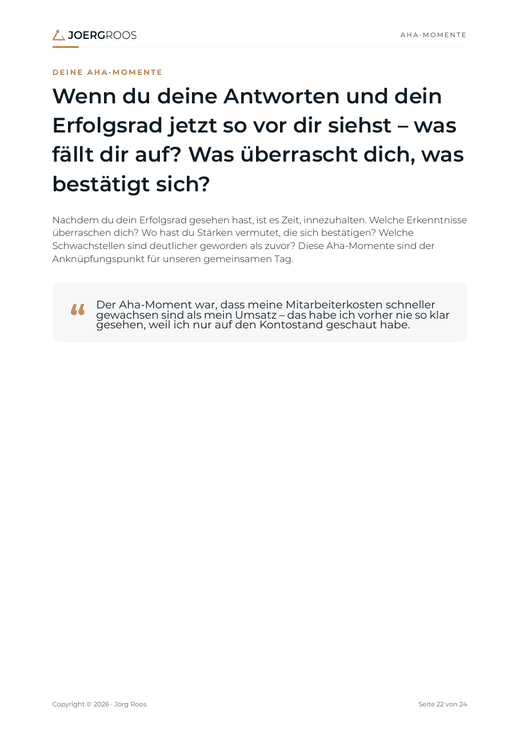
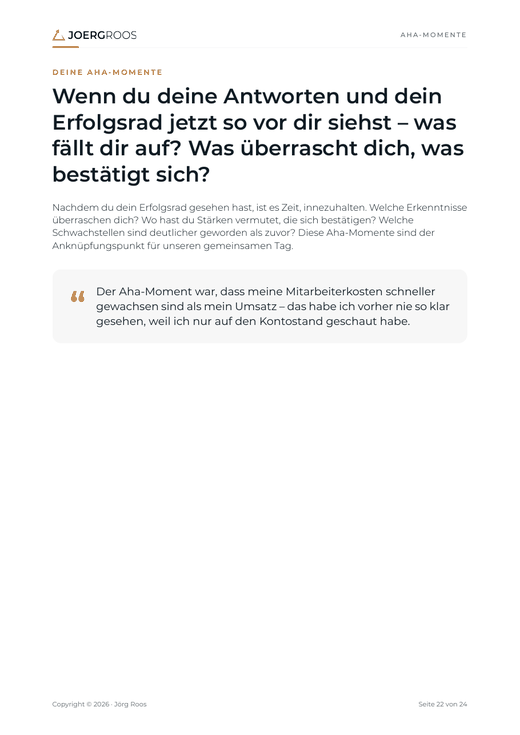
fix: PDF — Zeilenabstand in Karten und Tabellen, Abstände Faktor-Seite

Changed region(s): [[0.0923, 0.1497, 0.8923, 0.3592], [0.1231, 0.3891, 0.8615, 0.449]]

diff --git a/lib/pdf/Workbook.tsx b/lib/pdf/Workbook.tsx
@@ -16,20 +16,19 @@ const KARTE = '#F7F7F7', ZEBRA = '#FFFFFF', WASSER = '#F0F0F0', PILLE = '#FDEBD9
 // 1. Kein lineHeight auf Seitenebene (st.seite) — Yoga bringt sonst die feste
 //    Fußzeile (position:'absolute', bottom) aus dem Takt, sie wird gar nicht
 //    mehr gerendert. lineHeight deshalb nur an den Fließtext-Stilen.
-// 2. lineHeight ist KEIN Faktor auf die eigene Schriftgröße. Nachgemessen an
-//    zwei Stellen mit sehr unterschiedlicher Größe (Fließtext 10,8 pt und
-//    Überschrift 24 pt): der sichtbare Zeilenabstand ist beide Male
-//    lineHeight × ≈20,6 pt — also ein fester Wert, unabhängig von der
-//    Schriftgröße (12 pt Grundwert × dem dokumentierten Faktor 12/7). Praktisch
-//    heißt das: gewünschter Zeilenabstand in Punkt ÷ 20,6 = der Stil-Wert.
-//    Große Schrift braucht deshalb große Werte (24 pt Überschrift → 1.4),
-//    kleine Schrift kleine (10,8 pt Fließtext → 0.82 ≈ 17 pt Abstand).
-//    Wer hier den gleichen Wert für alles einsetzt, bekommt entweder
-//    übereinanderliegende Überschriften oder auseinandergerissenen Fließtext.
+// 2. lineHeight wirkt NUR, wenn am selben Element auch fontSize steht. Dann
+//    gilt schlicht: Zeilenabstand = lineHeight × fontSize (mit pdftotext -bbox
+//    nachgemessen: fontSize 11 + lineHeight 1.0 ergibt exakt 11,00 pt Abstand).
+//    Fehlt fontSize, ignoriert react-pdf den Wert und nimmt die natürliche
+//    Zeilenhöhe der Schrift — bei Montserrat rund 1,36 × Schriftgröße (10,8 pt
+//    Fließtext ohne eigenes fontSize maß 14,7 pt). Daher trägt hier JEDER Stil
+//    mit lineHeight auch ein fontSize. Der früher dokumentierte 12/7-Faktor
+//    existiert nicht.
 // 3. Kein fontStyle:'italic' — es liegt keine kursive Montserrat unter
 //    public/fonts/, react-pdf bricht sonst mit "Could not resolve font" ab.
 // ---------------------------------------------------------------------------
-const ZH = 0.82; // Fließtext 10,8–11 pt → ≈17 pt Zeilenabstand
+const GROESSE = 10.8;  // Fließtext
+const ZH = 1.35;       // Zeilenabstand als Vielfaches der Schriftgröße
 
 const st = StyleSheet.create({
   seite: { fontFamily: 'Montserrat', fontSize: 10.8, color: BLAU, paddingTop: 78, paddingBottom: 62, paddingHorizontal: 60 },
@@ -43,23 +42,23 @@ const st = StyleSheet.create({
   fuss: { position: 'absolute', bottom: 30, left: 60, right: 60, flexDirection: 'row', justifyContent: 'space-between', fontSize: 7.5, color: GRAU },
 
   eyebrow: { fontSize: 8.5, letterSpacing: 1.6, color: O, fontWeight: 600, textTransform: 'uppercase', marginBottom: 7 },
-  h1: { fontSize: 24, fontWeight: 600, marginBottom: 16, lineHeight: 1.4 },
-  h2: { fontSize: 12.5, fontWeight: 600, marginTop: 16, marginBottom: 5, lineHeight: 0.9 },
-  absatz: { marginBottom: 9, fontWeight: 300, lineHeight: ZH },
+  h1: { fontSize: 24, fontWeight: 600, marginBottom: 16, lineHeight: 1.25 },
+  h2: { fontSize: 12.5, fontWeight: 600, marginTop: 16, marginBottom: 5, lineHeight: 1.3 },
+  absatz: { marginBottom: 9, fontSize: GROESSE, fontWeight: 300, lineHeight: ZH },
 
   // Frage & Antwort
   frageZeile: { flexDirection: 'row', alignItems: 'flex-start', marginBottom: 5 },
   punkt: { width: 15, height: 15, borderRadius: 7.5, backgroundColor: O, alignItems: 'center', justifyContent: 'center', marginRight: 8 },
   punktZahl: { fontSize: 7, color: '#FFFFFF', fontWeight: 600 },
-  frageText: { flex: 1, fontSize: 8.8, letterSpacing: 0.7, color: O, textTransform: 'uppercase', fontWeight: 600, lineHeight: 0.8, paddingTop: 1 },
+  frageText: { flex: 1, fontSize: 8.8, letterSpacing: 0.7, color: O, textTransform: 'uppercase', fontWeight: 600, lineHeight: 1.3, paddingTop: 1 },
   karte: { backgroundColor: KARTE, borderRadius: 8, borderLeftWidth: 3, borderLeftColor: O, paddingVertical: 9, paddingHorizontal: 11, marginBottom: 13 },
-  antwort: { fontSize: 11, fontWeight: 400, lineHeight: 1.0 },
-  leer: { fontSize: 11, color: GRAU, fontWeight: 300, lineHeight: 1.0 },
+  antwort: { fontSize: 11, fontWeight: 400, lineHeight: ZH },
+  leer: { fontSize: 11, color: GRAU, fontWeight: 300, lineHeight: ZH },
 
   // Tabellen
-  zeile: { flexDirection: 'row', paddingVertical: 4.5, paddingHorizontal: 7 },
-  zelleText: { flex: 1, lineHeight: 0.9 },
-  zelleWert: { width: 44, textAlign: 'right', fontWeight: 600, lineHeight: 0.74 },
+  zeile: { flexDirection: 'row', paddingVertical: 5.5, paddingHorizontal: 7 },
+  zelleText: { flex: 1, fontSize: 10.5, lineHeight: ZH },
+  zelleWert: { width: 44, textAlign: 'right', fontSize: 10.5, fontWeight: 600, lineHeight: ZH },
   kopfzeile: { flexDirection: 'row', backgroundColor: BLAU, paddingVertical: 6, paddingHorizontal: 7, borderTopLeftRadius: 7, borderTopRightRadius: 7 },
   kopfzelle: { color: O, fontSize: 8.5, letterSpacing: 1, textTransform: 'uppercase', fontWeight: 600 },
 
@@ -121,7 +120,7 @@ function Kapiteltrenner({ nummer, titel, unter, id, seiten }: { nummer: string; 
       <View style={{ flex: 1, justifyContent: 'flex-end' }}>
         <Marke id={id} seiten={seiten} />
         {unter ? <Text style={{ fontSize: 9, letterSpacing: 1.8, color: O, textTransform: 'uppercase', fontWeight: 600, marginBottom: 10 }}>{unter}</Text> : null}
-        <Text style={{ fontSize: 32, fontWeight: 600, lineHeight: 1.6 }}>{titel}</Text>
+        <Text style={{ fontSize: 32, fontWeight: 600, lineHeight: 1.25 }}>{titel}</Text>
         <View style={{ width: 54, height: 3, backgroundColor: O, marginTop: 18 }} />
       </View>
     </Page>
@@ -297,7 +296,7 @@ export function Workbook({ s, texte, seiten }: { s: Sitzung; texte: Record<strin
           {t('finanzcheck_liste').split('\n').map((z, i) => (
             <View key={i} style={{ flexDirection: 'row', marginBottom: 5 }}>
               <View style={{ width: 5, height: 5, borderRadius: 2.5, backgroundColor: O, marginTop: 5, marginRight: 9 }} />
-              <Text style={{ flex: 1, fontWeight: 300, lineHeight: ZH }}>{z}</Text>
+              <Text style={{ flex: 1, fontSize: GROESSE, fontWeight: 300, lineHeight: ZH }}>{z}</Text>
             </View>
           ))}
         </View>
@@ -329,7 +328,7 @@ export function Workbook({ s, texte, seiten }: { s: Sitzung; texte: Record<strin
             <Text style={{ width: 26, fontSize: 15, fontWeight: 600, color: O }}>{nr(i + 1)}</Text>
             <View style={{ flex: 1 }}>
               <Text style={{ fontSize: 11.5, fontWeight: 600, marginBottom: 2 }}>{k.titel}</Text>
-              <Text style={{ fontSize: 9.5, fontWeight: 300, color: GRAU, lineHeight: 0.7 }}>{k.einleitung}</Text>
+              <Text style={{ fontSize: 9.5, fontWeight: 300, color: GRAU, lineHeight: ZH }}>{k.einleitung}</Text>
             </View>
           </View>
         ))}
@@ -345,7 +344,7 @@ export function Workbook({ s, texte, seiten }: { s: Sitzung; texte: Record<strin
             <Text style={[st.h1, { paddingRight: 80 }]}>{k.titel}</Text>
             <Text style={[st.absatz, { paddingRight: 80 }]}>{k.einleitung}</Text>
 
-            <View style={{ marginTop: 10 }}>
+            <View style={{ marginTop: 18 }}>
               <View style={st.kopfzeile}>
                 <Text style={{ width: 20, ...st.kopfzelle }}>Nr</Text>
                 <Text style={[st.kopfzelle, { flex: 1 }]}>Aussage</Text>
@@ -353,8 +352,8 @@ export function Workbook({ s, texte, seiten }: { s: Sitzung; texte: Record<strin
               </View>
               {k.fragen.map((f, j) => (
                 <View key={f.id} style={[st.zeile, { backgroundColor: j % 2 === 0 ? '#FAFBFB' : '#FFFFFF' }]} wrap={false}>
-                  <Text style={{ width: 20, color: GRAU, fontSize: 9.5, lineHeight: 0.74 }}>{j + 1}</Text>
-                  <Text style={[st.zelleText, { fontSize: 10, fontWeight: 300, lineHeight: 0.85, paddingRight: 8 }]}>{f.text}</Text>
+                  <Text style={{ width: 20, color: GRAU, fontSize: 9.5, lineHeight: ZH }}>{j + 1}</Text>
+                  <Text style={[st.zelleText, { fontSize: 10, fontWeight: 300, lineHeight: ZH, paddingRight: 8 }]}>{f.text}</Text>
                   <View style={{ width: 44, alignItems: 'flex-end' }}>
                     <View style={{ backgroundColor: PILLE, borderRadius: 7, paddingHorizontal: 7, paddingVertical: 1.5 }}>
                       <Text style={{ fontSize: 9.5, fontWeight: 600, color: '#9F3C07' }}>
@@ -367,7 +366,7 @@ export function Workbook({ s, texte, seiten }: { s: Sitzung; texte: Record<strin
             </View>
 
             {p ? (
-              <View style={{ flexDirection: 'row', alignItems: 'flex-end', marginTop: 16 }} wrap={false}>
+              <View style={{ flexDirection: 'row', alignItems: 'flex-end', marginTop: 16, paddingTop: 12, borderTopWidth: 0.6, borderTopColor: LINIE }} wrap={false}>
                 <Text style={{ flex: 1, fontSize: 9, letterSpacing: 1.4, color: GRAU, textTransform: 'uppercase', fontWeight: 600, marginBottom: 6 }}>Gesamtpunkte</Text>
                 <Text style={{ fontSize: 28, fontWeight: 600, color: O, lineHeight: 0.6 }}>{p.summe}</Text>
                 <Text style={{ fontSize: 10, color: GRAU, marginLeft: 5, marginBottom: 3 }}>von {p.maximum}</Text>
@@ -406,7 +405,7 @@ export function Workbook({ s, texte, seiten }: { s: Sitzung; texte: Record<strin
         <Text style={st.absatz}>{t('aha_text')}</Text>
         <View style={{ backgroundColor: KARTE, borderRadius: 10, paddingVertical: 16, paddingHorizontal: 20, marginTop: 10, flexDirection: 'row' }}>
           <Text style={{ fontSize: 40, color: O, fontWeight: 600, lineHeight: 0.52, marginRight: 12 }}>“</Text>
-          <Text style={[s.aha ? st.antwort : st.leer, { flex: 1, fontSize: 12.5, lineHeight: 0.92, paddingTop: 2 }]}>
+          <Text style={[s.aha ? st.antwort : st.leer, { flex: 1, fontSize: 12.5, lineHeight: ZH, paddingTop: 2 }]}>
             {s.aha || '– noch nicht festgehalten –'}
           </Text>
         </View>
@@ -438,7 +437,7 @@ export function Workbook({ s, texte, seiten }: { s: Sitzung; texte: Record<strin
           <Marke id="kontakt" seiten={seiten} />
           <Image src={pub('logo-full-gradiant.png')} style={{ width: 190, height: 190 / 7.87, marginBottom: 34 }} />
           <View style={{ width: 54, height: 3, backgroundColor: O, marginBottom: 22 }} />
-          <Text style={{ fontSize: 13, fontWeight: 300, lineHeight: 0.95, color: '#E6EAED' }}>{t('kontakt')}</Text>
+          <Text style={{ fontSize: 13, fontWeight: 300, lineHeight: ZH, color: '#E6EAED' }}>{t('kontakt')}</Text>
           <Link src="https://joerg-roos.com" style={{ color: O, fontWeight: 600, fontSize: 12, marginTop: 20, textDecoration: 'none' }}>{t('ueber_web')}</Link>
         </View>
         <Text style={{ fontSize: 8, color: 'rgba(255,255,255,0.45)' }}>Copyright © {new Date().getFullYear()} · Jörg Roos</Text>

diff --git a/CLAUDE.md b/CLAUDE.md
@@ -146,9 +146,14 @@ einspielen und Seed-Ablauf: `supabase/README.md`.
   wieder an der zuletzt gespeicherten (weiter vorne liegenden) Frage fort.
 - **react-pdf-Eigenheiten** (`lib/pdf/Workbook.tsx`): kein `lineHeight` auf
   Seitenebene setzen — Yoga in react-pdf 4.9 überschreibt es sonst überall,
-  auch in der Fußzeile. Ein hier gesetzter `lineHeight` wird beim Rendern
-  fix mit 12/7 (≈1,714) multipliziert, unabhängig von der Schriftgröße —
-  `lineHeight: 1.35` im Code ergibt also ~2,31 auf der Seite. Kein
+  auch in der Fußzeile. `lineHeight` wirkt nur, wenn am selben Element auch
+  `fontSize` steht — dann gilt schlicht Zeilenabstand = `lineHeight` ×
+  `fontSize` (mit `pdftotext -bbox` gemessen: `fontSize: 11` plus
+  `lineHeight: 1.0` ergibt exakt 11,00 pt); fehlt `fontSize`, ignoriert
+  react-pdf den Wert und nimmt die natürliche Zeilenhöhe der Schrift, bei
+  Montserrat rund 1,36 × Schriftgröße. Ganzseitige Hintergrundbilder brauchen
+  feste Punktmaße (595,28 × 841,89) und `fixed`, sonst zählen sie im
+  Seitenumbruch mit und jede Seite wird zu zweien. Kein
   `fontStyle: 'italic'` verwenden, solange keine kursive Montserrat-Datei
   unter `public/fonts/` liegt.
 
